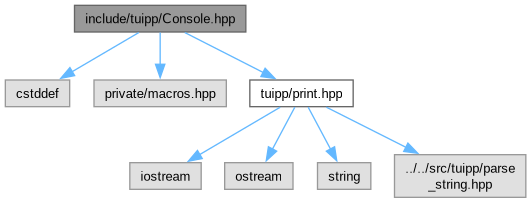
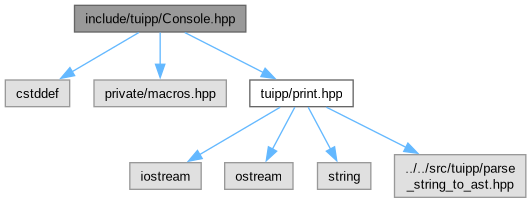
feat: add basic AST

Changed region(s): [[0.7533, 0.8867, 0.9642, 0.9458]]

diff --git a/docs/html/print_8hpp_source.html b/docs/html/print_8hpp_source.html
@@ -100,7 +100,7 @@ $(function(){initNavTree('print_8hpp_source.html','',''); });
 <div class="line"><a id="l00019" name="l00019"></a><span class="lineno">   19</span><span class="preprocessor">#include &lt;ostream&gt;</span></div>
 <div class="line"><a id="l00020" name="l00020"></a><span class="lineno">   20</span><span class="preprocessor">#include &lt;string&gt;</span></div>
 <div class="line"><a id="l00021" name="l00021"></a><span class="lineno">   21</span> </div>
-<div class="line"><a id="l00022" name="l00022"></a><span class="lineno">   22</span><span class="preprocessor">#include &quot;../../src/tuipp/parse_string.hpp&quot;</span></div>
+<div class="line"><a id="l00022" name="l00022"></a><span class="lineno">   22</span><span class="preprocessor">#include &quot;../../src/tuipp/parse_string_to_ast.hpp&quot;</span></div>
 <div class="line"><a id="l00023" name="l00023"></a><span class="lineno">   23</span> </div>
 <div class="line"><a id="l00024" name="l00024"></a><span class="lineno">   24</span><span class="keyword">namespace </span><a class="code hl_namespace" href="namespacetuipp.html">tuipp</a> {</div>
 <div class="line"><a id="l00025" name="l00025"></a><span class="lineno">   25</span></div>
@@ -114,40 +114,46 @@ $(function(){initNavTree('print_8hpp_source.html','',''); });
 <div class="line"><a id="l00070" name="l00070"></a><span class="lineno">   70</span>    (</div>
 <div class="line"><a id="l00071" name="l00071"></a><span class="lineno">   71</span>      [&amp;]() {</div>
 <div class="line"><a id="l00072" name="l00072"></a><span class="lineno">   72</span>          <span class="keywordflow">if</span> <span class="keyword">constexpr</span> (std::is_convertible_v&lt;<span class="keyword">decltype</span>(content), std::string&gt;) {</div>
-<div class="line"><a id="l00073" name="l00073"></a><span class="lineno">   73</span>              parse_string(output, content);</div>
-<div class="line"><a id="l00074" name="l00074"></a><span class="lineno">   74</span>          } <span class="keywordflow">else</span> {</div>
-<div class="line"><a id="l00075" name="l00075"></a><span class="lineno">   75</span>              output &lt;&lt; content;</div>
-<div class="line"><a id="l00076" name="l00076"></a><span class="lineno">   76</span>          }</div>
-<div class="line"><a id="l00077" name="l00077"></a><span class="lineno">   77</span>      }(),</div>
-<div class="line"><a id="l00078" name="l00078"></a><span class="lineno">   78</span>      ...);</div>
-<div class="line"><a id="l00079" name="l00079"></a><span class="lineno">   79</span> </div>
-<div class="line"><a id="l00080" name="l00080"></a><span class="lineno">   80</span>    output &lt;&lt; std::endl;</div>
-<div class="line"><a id="l00081" name="l00081"></a><span class="lineno">   81</span>}</div>
+<div class="line"><a id="l00073" name="l00073"></a><span class="lineno">   73</span>              Ast ast = parse_string_to_ast(content);</div>
+<div class="line"><a id="l00074" name="l00074"></a><span class="lineno">   74</span> </div>
+<div class="line"><a id="l00075" name="l00075"></a><span class="lineno">   75</span>              <span class="keywordflow">for</span> (<span class="keyword">const</span> <span class="keyword">auto</span>&amp; item : ast.children) {</div>
+<div class="line"><a id="l00076" name="l00076"></a><span class="lineno">   76</span>                  std::cout &lt;&lt; item-&gt;content;</div>
+<div class="line"><a id="l00077" name="l00077"></a><span class="lineno">   77</span>              }</div>
+<div class="line"><a id="l00078" name="l00078"></a><span class="lineno">   78</span> </div>
+<div class="line"><a id="l00079" name="l00079"></a><span class="lineno">   79</span>              <span class="comment">// parse_string(output, content);</span></div>
+<div class="line"><a id="l00080" name="l00080"></a><span class="lineno">   80</span>          } <span class="keywordflow">else</span> {</div>
+<div class="line"><a id="l00081" name="l00081"></a><span class="lineno">   81</span>              output &lt;&lt; content;</div>
+<div class="line"><a id="l00082" name="l00082"></a><span class="lineno">   82</span>          }</div>
+<div class="line"><a id="l00083" name="l00083"></a><span class="lineno">   83</span>      }(),</div>
+<div class="line"><a id="l00084" name="l00084"></a><span class="lineno">   84</span>      ...);</div>
+<div class="line"><a id="l00085" name="l00085"></a><span class="lineno">   85</span> </div>
+<div class="line"><a id="l00086" name="l00086"></a><span class="lineno">   86</span>    output &lt;&lt; std::endl;</div>
+<div class="line"><a id="l00087" name="l00087"></a><span class="lineno">   87</span>}</div>
 </div>
-<div class="line"><a id="l00082" name="l00082"></a><span class="lineno">   82</span></div>
-<div class="line"><a id="l00119" name="l00119"></a><span class="lineno">  119</span><span class="keyword">template</span>&lt;<span class="keyword">typename</span>... Args&gt;</div>
-<div class="line"><a id="l00120" name="l00120"></a><span class="lineno">  120</span><span class="keywordtype">void</span></div>
-<div class="foldopen" id="foldopen00121" data-start="{" data-end="}">
-<div class="line"><a id="l00121" name="l00121"></a><span class="lineno"><a class="line" href="namespacetuipp.html#a795bf9ac1ac4736ba4f777aac3395d5e">  121</a></span><a class="code hl_function" href="namespacetuipp.html#a795bf9ac1ac4736ba4f777aac3395d5e">print</a>(<span class="keyword">const</span> Args&amp;... content)</div>
-<div class="line"><a id="l00122" name="l00122"></a><span class="lineno">  122</span>{</div>
-<div class="line"><a id="l00123" name="l00123"></a><span class="lineno">  123</span>    std::ostream&amp; output = std::cout;</div>
-<div class="line"><a id="l00124" name="l00124"></a><span class="lineno">  124</span> </div>
-<div class="line"><a id="l00125" name="l00125"></a><span class="lineno">  125</span>    (</div>
-<div class="line"><a id="l00126" name="l00126"></a><span class="lineno">  126</span>      [&amp;]() {</div>
-<div class="line"><a id="l00127" name="l00127"></a><span class="lineno">  127</span>          <span class="keywordflow">if</span> <span class="keyword">constexpr</span> (std::is_convertible_v&lt;<span class="keyword">decltype</span>(content), std::string&gt;) {</div>
-<div class="line"><a id="l00128" name="l00128"></a><span class="lineno">  128</span>              parse_string(output, content);</div>
-<div class="line"><a id="l00129" name="l00129"></a><span class="lineno">  129</span>          } <span class="keywordflow">else</span> {</div>
-<div class="line"><a id="l00130" name="l00130"></a><span class="lineno">  130</span>              output &lt;&lt; content;</div>
-<div class="line"><a id="l00131" name="l00131"></a><span class="lineno">  131</span>          }</div>
-<div class="line"><a id="l00132" name="l00132"></a><span class="lineno">  132</span>      }(),</div>
-<div class="line"><a id="l00133" name="l00133"></a><span class="lineno">  133</span>      ...);</div>
-<div class="line"><a id="l00134" name="l00134"></a><span class="lineno">  134</span>}</div>
+<div class="line"><a id="l00088" name="l00088"></a><span class="lineno">   88</span></div>
+<div class="line"><a id="l00125" name="l00125"></a><span class="lineno">  125</span><span class="keyword">template</span>&lt;<span class="keyword">typename</span>... Args&gt;</div>
+<div class="line"><a id="l00126" name="l00126"></a><span class="lineno">  126</span><span class="keywordtype">void</span></div>
+<div class="foldopen" id="foldopen00127" data-start="{" data-end="}">
+<div class="line"><a id="l00127" name="l00127"></a><span class="lineno"><a class="line" href="namespacetuipp.html#a795bf9ac1ac4736ba4f777aac3395d5e">  127</a></span><a class="code hl_function" href="namespacetuipp.html#a795bf9ac1ac4736ba4f777aac3395d5e">print</a>(<span class="keyword">const</span> Args&amp;... content)</div>
+<div class="line"><a id="l00128" name="l00128"></a><span class="lineno">  128</span>{</div>
+<div class="line"><a id="l00129" name="l00129"></a><span class="lineno">  129</span>    std::ostream&amp; output = std::cout;</div>
+<div class="line"><a id="l00130" name="l00130"></a><span class="lineno">  130</span> </div>
+<div class="line"><a id="l00131" name="l00131"></a><span class="lineno">  131</span>    (</div>
+<div class="line"><a id="l00132" name="l00132"></a><span class="lineno">  132</span>      [&amp;]() {</div>
+<div class="line"><a id="l00133" name="l00133"></a><span class="lineno">  133</span>          <span class="keywordflow">if</span> <span class="keyword">constexpr</span> (std::is_convertible_v&lt;<span class="keyword">decltype</span>(content), std::string&gt;) {</div>
+<div class="line"><a id="l00134" name="l00134"></a><span class="lineno">  134</span>              parse_string(output, content);</div>
+<div class="line"><a id="l00135" name="l00135"></a><span class="lineno">  135</span>          } <span class="keywordflow">else</span> {</div>
+<div class="line"><a id="l00136" name="l00136"></a><span class="lineno">  136</span>              output &lt;&lt; content;</div>
+<div class="line"><a id="l00137" name="l00137"></a><span class="lineno">  137</span>          }</div>
+<div class="line"><a id="l00138" name="l00138"></a><span class="lineno">  138</span>      }(),</div>
+<div class="line"><a id="l00139" name="l00139"></a><span class="lineno">  139</span>      ...);</div>
+<div class="line"><a id="l00140" name="l00140"></a><span class="lineno">  140</span>}</div>
 </div>
-<div class="line"><a id="l00135" name="l00135"></a><span class="lineno">  135</span> </div>
-<div class="line"><a id="l00136" name="l00136"></a><span class="lineno">  136</span>} <span class="comment">// namespace tuipp</span></div>
+<div class="line"><a id="l00141" name="l00141"></a><span class="lineno">  141</span> </div>
+<div class="line"><a id="l00142" name="l00142"></a><span class="lineno">  142</span>} <span class="comment">// namespace tuipp</span></div>
 <div class="ttc" id="anamespacetuipp_html"><div class="ttname"><a href="namespacetuipp.html">tuipp</a></div><div class="ttdef"><b>Definition</b> Console.hpp:16</div></div>
 <div class="ttc" id="anamespacetuipp_html_a6ff07c907c89acf092f5f6310f11f857"><div class="ttname"><a href="namespacetuipp.html#a6ff07c907c89acf092f5f6310f11f857">tuipp::println</a></div><div class="ttdeci">void println(const Args &amp;... content)</div><div class="ttdoc">Print an output to the screen with a new line at the end (supports markup).</div><div class="ttdef"><b>Definition</b> print.hpp:66</div></div>
-<div class="ttc" id="anamespacetuipp_html_a795bf9ac1ac4736ba4f777aac3395d5e"><div class="ttname"><a href="namespacetuipp.html#a795bf9ac1ac4736ba4f777aac3395d5e">tuipp::print</a></div><div class="ttdeci">void print(const Args &amp;... content)</div><div class="ttdoc">Print an output to the screen without a new line at the end (supports markup).</div><div class="ttdef"><b>Definition</b> print.hpp:121</div></div>
+<div class="ttc" id="anamespacetuipp_html_a795bf9ac1ac4736ba4f777aac3395d5e"><div class="ttname"><a href="namespacetuipp.html#a795bf9ac1ac4736ba4f777aac3395d5e">tuipp::print</a></div><div class="ttdeci">void print(const Args &amp;... content)</div><div class="ttdoc">Print an output to the screen without a new line at the end (supports markup).</div><div class="ttdef"><b>Definition</b> print.hpp:127</div></div>
 </div><!-- fragment --></div><!-- contents -->
 </div><!-- doc-content -->
 </div><!-- container -->

diff --git a/docs/html/Console_8hpp_source.html b/docs/html/Console_8hpp_source.html
@@ -144,7 +144,7 @@ $(function(){initNavTree('Console_8hpp_source.html','',''); });
 <div class="ttc" id="aclasstuipp_1_1Console_html_ace11c336b83c77e9541c9734e6ee24b9"><div class="ttname"><a href="classtuipp_1_1Console.html#ace11c336b83c77e9541c9734e6ee24b9">tuipp::Console::Console</a></div><div class="ttdeci">Console()</div><div class="ttdef"><b>Definition</b> Console.hpp:37</div></div>
 <div class="ttc" id="aclasstuipp_1_1Console_html_af26cfdcf8467dc26db179c5c2ef75fd8"><div class="ttname"><a href="classtuipp_1_1Console.html#af26cfdcf8467dc26db179c5c2ef75fd8">tuipp::Console::get_terminal_size</a></div><div class="ttdeci">TUIPP_NODISCARD TerminalSize get_terminal_size()</div></div>
 <div class="ttc" id="anamespacetuipp_html"><div class="ttname"><a href="namespacetuipp.html">tuipp</a></div><div class="ttdef"><b>Definition</b> Console.hpp:16</div></div>
-<div class="ttc" id="anamespacetuipp_html_a795bf9ac1ac4736ba4f777aac3395d5e"><div class="ttname"><a href="namespacetuipp.html#a795bf9ac1ac4736ba4f777aac3395d5e">tuipp::print</a></div><div class="ttdeci">void print(const Args &amp;... content)</div><div class="ttdoc">Print an output to the screen without a new line at the end (supports markup).</div><div class="ttdef"><b>Definition</b> print.hpp:121</div></div>
+<div class="ttc" id="anamespacetuipp_html_a795bf9ac1ac4736ba4f777aac3395d5e"><div class="ttname"><a href="namespacetuipp.html#a795bf9ac1ac4736ba4f777aac3395d5e">tuipp::print</a></div><div class="ttdeci">void print(const Args &amp;... content)</div><div class="ttdoc">Print an output to the screen without a new line at the end (supports markup).</div><div class="ttdef"><b>Definition</b> print.hpp:127</div></div>
 <div class="ttc" id="aprint_8hpp_html"><div class="ttname"><a href="print_8hpp.html">print.hpp</a></div><div class="ttdoc">A utility to print text with markup support.</div></div>
 <div class="ttc" id="astructtuipp_1_1Console_1_1TerminalSize_html"><div class="ttname"><a href="structtuipp_1_1Console_1_1TerminalSize.html">tuipp::Console::TerminalSize</a></div><div class="ttdef"><b>Definition</b> Console.hpp:22</div></div>
 <div class="ttc" id="astructtuipp_1_1Console_1_1TerminalSize_html_a9b97a21147c5d89fa4a6f9952572624c"><div class="ttname"><a href="structtuipp_1_1Console_1_1TerminalSize.html#a9b97a21147c5d89fa4a6f9952572624c">tuipp::Console::TerminalSize::width</a></div><div class="ttdeci">std::size_t width</div><div class="ttdef"><b>Definition</b> Console.hpp:23</div></div>

diff --git a/docs/html/print_8hpp.html b/docs/html/print_8hpp.html
@@ -143,7 +143,7 @@ Functions</h2></td></tr>
 <div class="fragment"><div class="line"><a class="code hl_function" href="namespacetuipp.html#a6ff07c907c89acf092f5f6310f11f857">tuipp::println</a>(<span class="stringliteral">&quot;[bold red]Hello, World![reset]&quot;</span>);</div>
 <div class="line"><a class="code hl_function" href="namespacetuipp.html#a795bf9ac1ac4736ba4f777aac3395d5e">tuipp::print</a>(<span class="stringliteral">&quot;[bold green]Hello, World![reset]&quot;</span>);</div>
 <div class="ttc" id="anamespacetuipp_html_a6ff07c907c89acf092f5f6310f11f857"><div class="ttname"><a href="namespacetuipp.html#a6ff07c907c89acf092f5f6310f11f857">tuipp::println</a></div><div class="ttdeci">void println(const Args &amp;... content)</div><div class="ttdoc">Print an output to the screen with a new line at the end (supports markup).</div><div class="ttdef"><b>Definition</b> print.hpp:66</div></div>
-<div class="ttc" id="anamespacetuipp_html_a795bf9ac1ac4736ba4f777aac3395d5e"><div class="ttname"><a href="namespacetuipp.html#a795bf9ac1ac4736ba4f777aac3395d5e">tuipp::print</a></div><div class="ttdeci">void print(const Args &amp;... content)</div><div class="ttdoc">Print an output to the screen without a new line at the end (supports markup).</div><div class="ttdef"><b>Definition</b> print.hpp:121</div></div>
+<div class="ttc" id="anamespacetuipp_html_a795bf9ac1ac4736ba4f777aac3395d5e"><div class="ttname"><a href="namespacetuipp.html#a795bf9ac1ac4736ba4f777aac3395d5e">tuipp::print</a></div><div class="ttdeci">void print(const Args &amp;... content)</div><div class="ttdoc">Print an output to the screen without a new line at the end (supports markup).</div><div class="ttdef"><b>Definition</b> print.hpp:127</div></div>
 </div><!-- fragment --><dl class="section author"><dt>Author</dt><dd>Giuliano De Amicis </dd></dl>
 </div></div><!-- contents -->
 </div><!-- doc-content -->

diff --git a/docs/html/namespacetuipp.html b/docs/html/namespacetuipp.html
@@ -131,7 +131,7 @@ Examples:</h2>
 <div class="line"><a class="code hl_function" href="#a795bf9ac1ac4736ba4f777aac3395d5e">tuipp::print</a>(<span class="stringliteral">&quot;[green]This is green [bold]this is bold and green[/] this is still green[/]&quot;</span>);</div>
 <div class="line"><a class="code hl_function" href="#a795bf9ac1ac4736ba4f777aac3395d5e">tuipp::print</a>(<span class="stringliteral">&quot;[blue]Number of files: [/]&quot;</span>, 10, <span class="stringliteral">&quot;.&quot;</span>);</div>
 <div class="line"><a class="code hl_function" href="#a795bf9ac1ac4736ba4f777aac3395d5e">tuipp::print</a>(<span class="stringliteral">&quot;[green]This is green [bold]this is bold and green[reset] this is normal&quot;</span>);</div>
-<div class="ttc" id="anamespacetuipp_html_a795bf9ac1ac4736ba4f777aac3395d5e"><div class="ttname"><a href="#a795bf9ac1ac4736ba4f777aac3395d5e">tuipp::print</a></div><div class="ttdeci">void print(const Args &amp;... content)</div><div class="ttdoc">Print an output to the screen without a new line at the end (supports markup).</div><div class="ttdef"><b>Definition</b> print.hpp:121</div></div>
+<div class="ttc" id="anamespacetuipp_html_a795bf9ac1ac4736ba4f777aac3395d5e"><div class="ttname"><a href="#a795bf9ac1ac4736ba4f777aac3395d5e">tuipp::print</a></div><div class="ttdeci">void print(const Args &amp;... content)</div><div class="ttdoc">Print an output to the screen without a new line at the end (supports markup).</div><div class="ttdef"><b>Definition</b> print.hpp:127</div></div>
 </div><!-- fragment --><h2 class="doxsection"><a class="anchor" id="autotoc_md4"></a>
 Styles:</h2>
 <ul>

diff --git a/include/tuipp/print.hpp b/include/tuipp/print.hpp
@@ -19,7 +19,7 @@
 #include <ostream>
 #include <string>
 
-#include "../../src/tuipp/parse_string.hpp"
+#include "../../src/tuipp/parse_string_to_ast.hpp"
 
 namespace tuipp {
 
@@ -70,7 +70,11 @@ println(const Args&... content)
     (
       [&]() {
           if constexpr (std::is_convertible_v<decltype(content), std::string>) {
-              parse_string(output, content);
+              Ast ast = parse_string_to_ast(content);
+
+              for (const auto& item : ast.children) {
+                  std::cout << item->content;
+              }
           } else {
               output << content;
           }

diff --git a/src/tuipp/parse_string_to_ast.hpp b/src/tuipp/parse_string_to_ast.hpp
@@ -1,0 +1,24 @@
+#pragma once
+
+#include <cstddef>
+
+#include "Ast.hpp"
+#include "tuipp/private/macros.hpp"
+
+namespace tuipp {
+
+TUIPP_NODISCARD inline Ast
+parse_string_to_ast(const std::string& string)
+{
+    Ast ast{};
+
+    char prev_char{};
+    std::string buffer{};
+
+    for (std::size_t i = 0; i < string.size(); ++i) {
+    }
+
+    return ast;
+}
+
+} // namespace tuipp

diff --git a/src/tuipp/Ast.hpp b/src/tuipp/Ast.hpp
@@ -1,0 +1,24 @@
+#pragma once
+
+#include <memory>
+#include <vector>
+
+#include "handle_styles.hpp"
+
+namespace tuipp {
+
+struct Node
+{
+    std::vector<tuipp::Style> styles{};
+
+    std::string content{};
+
+    std::vector<std::unique_ptr<tuipp::Node>> children{};
+};
+
+struct Ast
+{
+    std::vector<std::unique_ptr<tuipp::Node>> children{};
+};
+
+} // namespace tuipp

diff --git a/test/main.cpp b/test/main.cpp
@@ -17,7 +17,7 @@ main()
 
     tuipp::println(console_size.width, "x", console_size.height);
 
-    console << "[bold green]Hello, " << "World!" << "[reset], " << 10 << "." << '\n';
+    // console << "[bold green]Hello, " << "World!" << "[reset], " << 10 << "." << '\n';
 
     return 0;
 }
